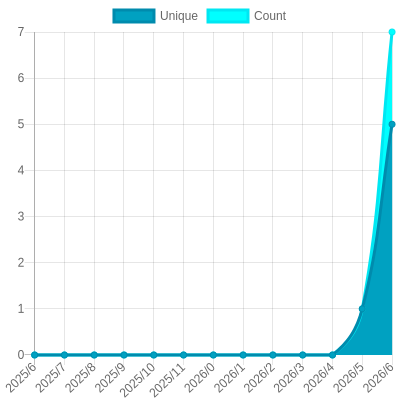
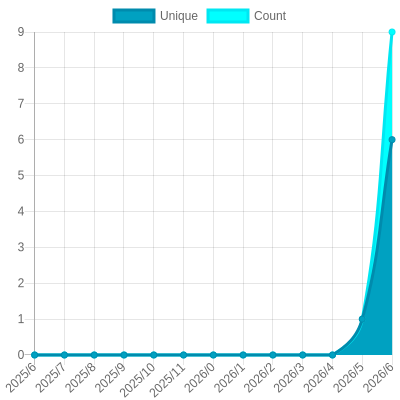
Update views

diff --git a/readme/1010491084/year.md b/readme/1010491084/year.md
@@ -23,10 +23,10 @@
 			<code>2025/7/1</code>
 		</td>
 		<td>
-			<code>5</code>
+			<code>6</code>
 		</td>
 		<td>
-			<code>7</code>
+			<code>9</code>
 		</td>
 	</tr>
 	<tr>
@@ -164,7 +164,7 @@
 </table>
 
 </details>
-<small><i>Last updated on 2025/7/14 6:33 AM UTC</i></small>
+<small><i>Last updated on 2025/7/14 12:42 PM UTC</i></small>
 
 ## ✂Copy and 📋 Paste
 ### SVG Badge

diff --git a/README.md b/README.md
@@ -85,7 +85,7 @@ The project created and maintained by [gayanvoice](https://github.com/gayanvoice
 	</tr>
 </table>
 
-<small><i>Last updated on 2025/7/14 6:33 AM UTC</i></small>
+<small><i>Last updated on 2025/7/14 12:43 PM UTC</i></small>
 
 ## ✂Copy and 📋 Paste
 ### Total Views Badge

diff --git a/readme/957512238/year.md b/readme/957512238/year.md
@@ -164,7 +164,7 @@
 </table>
 
 </details>
-<small><i>Last updated on 2025/7/14 6:33 AM UTC</i></small>
+<small><i>Last updated on 2025/7/14 12:43 PM UTC</i></small>
 
 ## ✂Copy and 📋 Paste
 ### SVG Badge

diff --git a/readme/969156905/year.md b/readme/969156905/year.md
@@ -164,7 +164,7 @@
 </table>
 
 </details>
-<small><i>Last updated on 2025/7/14 6:33 AM UTC</i></small>
+<small><i>Last updated on 2025/7/14 12:42 PM UTC</i></small>
 
 ## ✂Copy and 📋 Paste
 ### SVG Badge

diff --git a/readme/995396585/year.md b/readme/995396585/year.md
@@ -164,7 +164,7 @@
 </table>
 
 </details>
-<small><i>Last updated on 2025/7/14 6:33 AM UTC</i></small>
+<small><i>Last updated on 2025/7/14 12:43 PM UTC</i></small>
 
 ## ✂Copy and 📋 Paste
 ### SVG Badge
